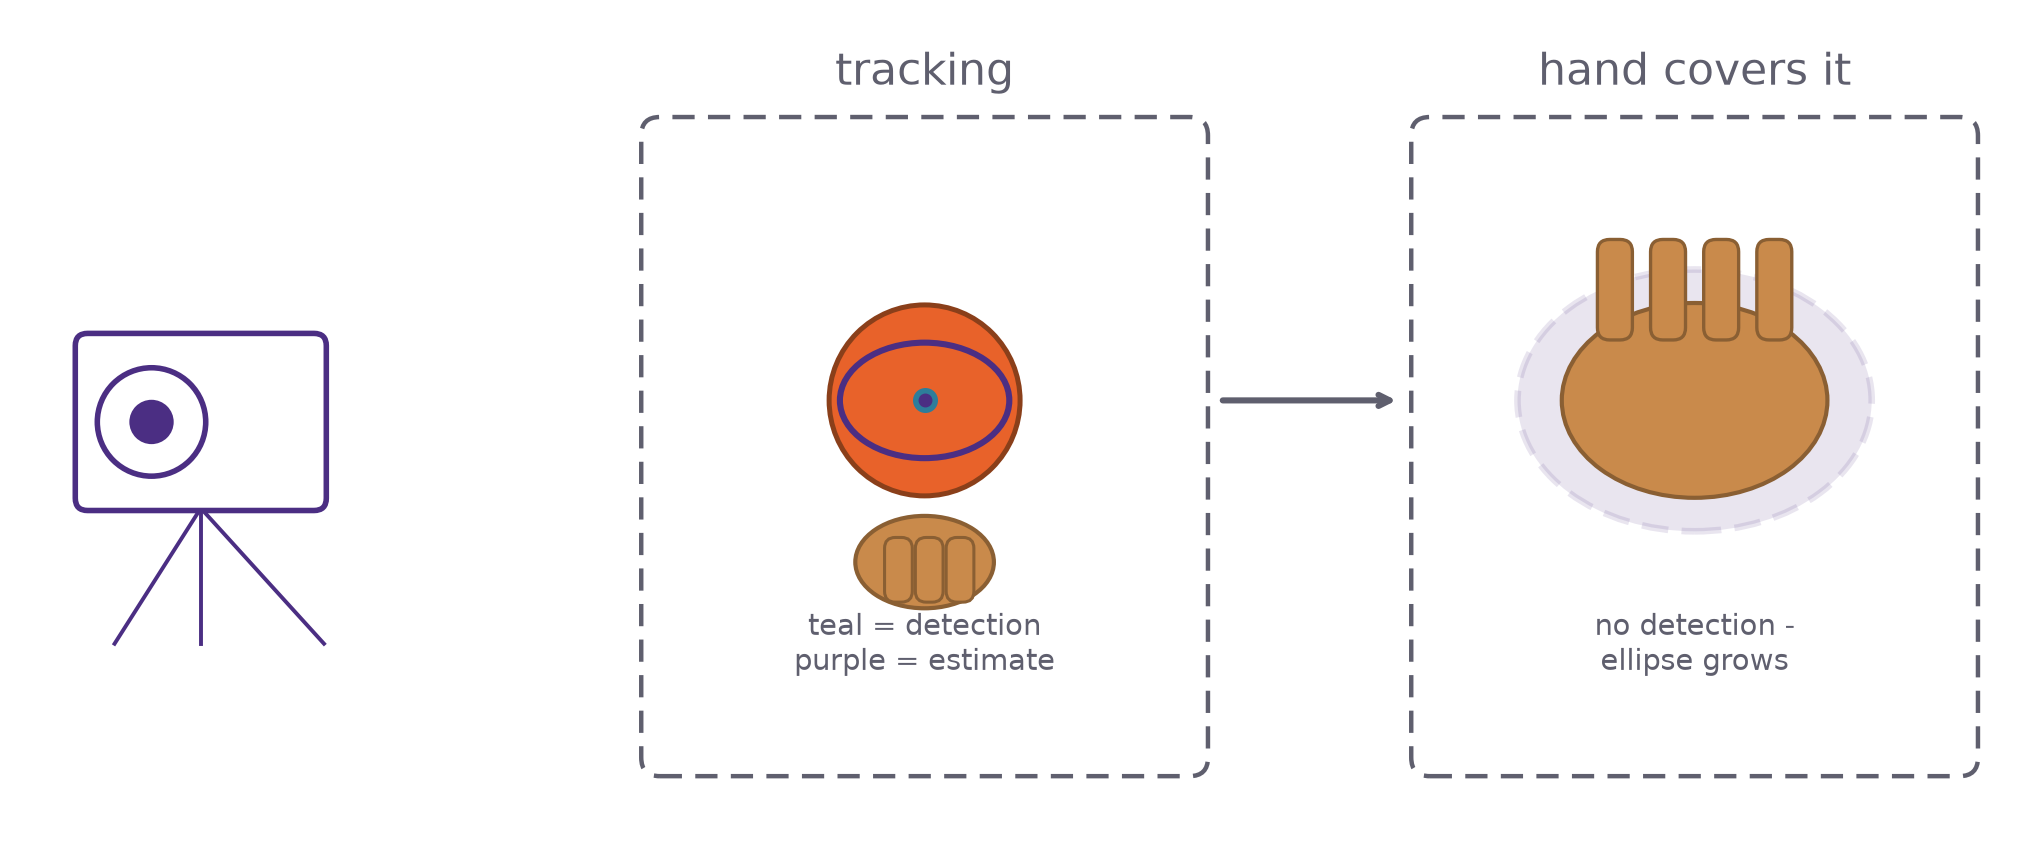
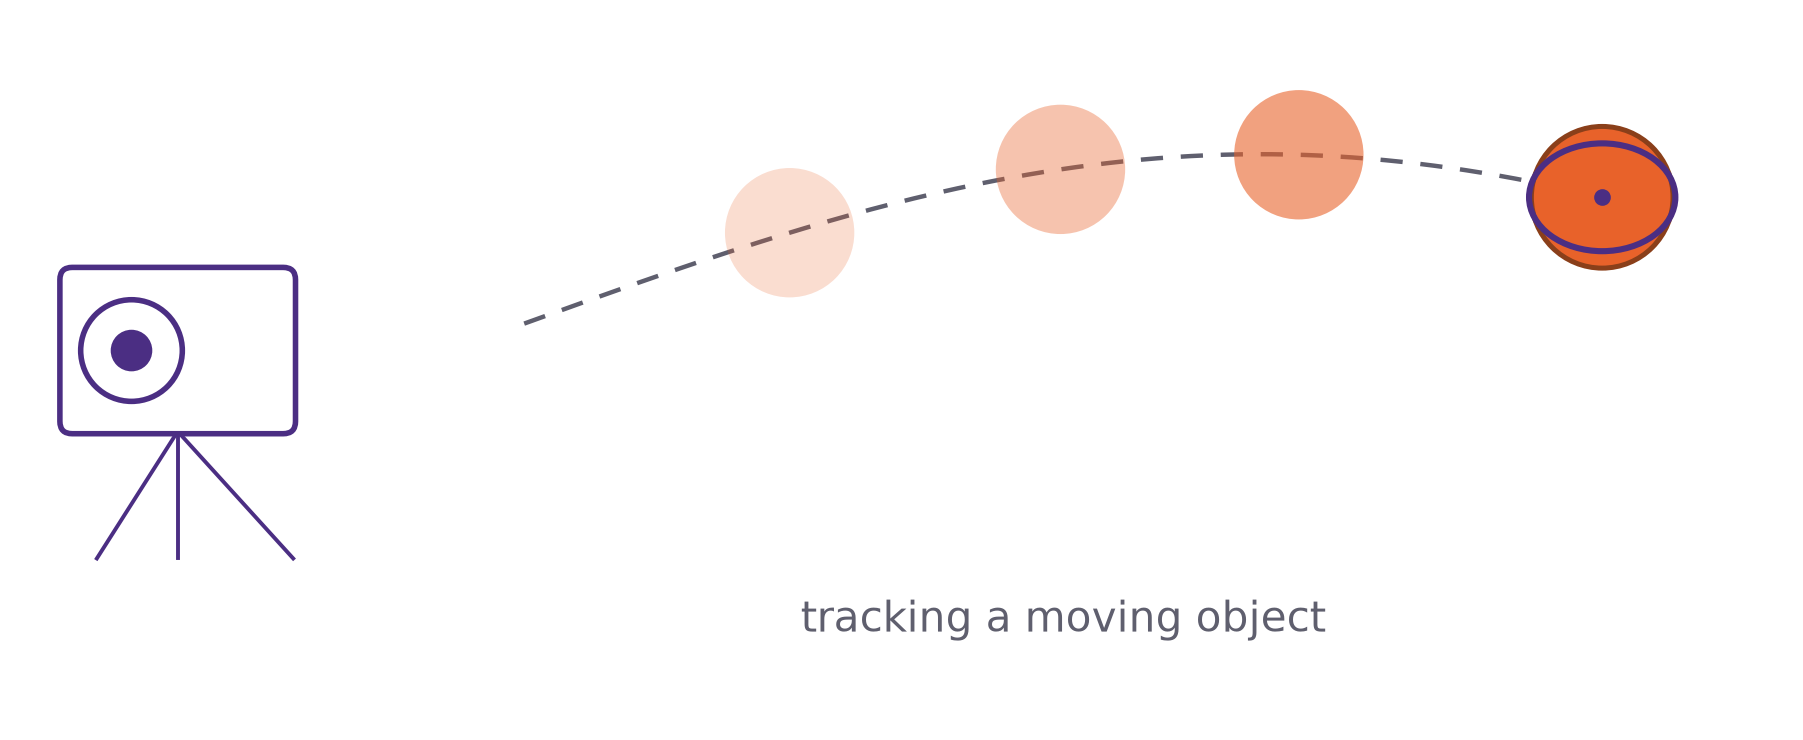
Simplify the Kalman tracking scene illustration
Drop the hand/occlusion panels - just a camera tracking one object
moving along a path, with a faded trail and the current purple estimate
ellipse.

diff --git a/make_illustrations.py b/make_illustrations.py
@@ -45,29 +45,6 @@ def camera(ax, x, y, s=1.0, color=PURPLE):
     return x + 1.0 * s, y + 0.35 * s  # lens-ish exit point for arrows
 
 
-def hand(ax, cx, cy, s=1.0, color="#C98A4B", covering=False):
-    """Schematic hand - a palm blob with four short fingers - entering from
-    below. When covering=True it is drawn larger, centred, and on top."""
-    if covering:
-        ax.add_patch(Ellipse((cx, cy), 1.5 * s, 1.1 * s, facecolor=color,
-                              edgecolor="#8a5f33", lw=1.5, zorder=6))
-        for dx in (-0.45, -0.15, 0.15, 0.45):
-            ax.add_patch(FancyBboxPatch((cx + dx * s - 0.09 * s, cy + 0.35 * s),
-                                        0.18 * s, 0.55 * s,
-                                        boxstyle="round,pad=0.01,rounding_size=0.08",
-                                        facecolor=color, edgecolor="#8a5f33",
-                                        lw=1.2, zorder=6))
-    else:
-        ax.add_patch(Ellipse((cx, cy - 1.05 * s), 0.9 * s, 0.6 * s, facecolor=color,
-                              edgecolor="#8a5f33", lw=1.5, zorder=2))
-        for dx in (-0.25, -0.05, 0.15):
-            ax.add_patch(FancyBboxPatch((cx + dx * s, cy - 1.3 * s),
-                                        0.16 * s, 0.4 * s,
-                                        boxstyle="round,pad=0.01,rounding_size=0.07",
-                                        facecolor=color, edgecolor="#8a5f33",
-                                        lw=1.1, zorder=2))
-
-
 def save(fig, name):
     fig.savefig(OUT / f"{name}.png", dpi=200, bbox_inches="tight", pad_inches=0.08,
                 transparent=True)
@@ -147,47 +124,33 @@ def demo3():
 
 
 def demo3_scene():
-    """The physical scene: a camera watching a held object, then a hand
-    covering it - as opposed to demo3_setup's abstract predict/correct loop."""
-    fig, ax = new_fig(13.0, 5.4)
-    camera(ax, 0.4, 2.2, s=1.6, color=PURPLE)
-
-    for bx, title in ((4.1, "tracking"), (9.1, "hand covers it")):
-        box = FancyBboxPatch((bx, 0.5), 3.6, 4.2,
-                              boxstyle="round,pad=0.04,rounding_size=0.12",
-                              linewidth=1.6, edgecolor=GREY, facecolor="white",
-                              linestyle=(0, (5, 3)), zorder=1)
-        ax.add_patch(box)
-        ax.text(bx + 1.8, 4.95, title, color=GREY, fontsize=16, ha="center")
-
-    # Left box: object visible, being tracked.
+    """The physical scene, simply: a camera watching one object move along a
+    path, tracked frame by frame."""
     TANGERINE = "#E8622A"
-    ox, oy = 5.9, 2.9
-    hand(ax, ox, oy, s=1.0, color="#C98A4B", covering=False)
-    ax.add_patch(Circle((ox, oy), 0.62, facecolor=TANGERINE, edgecolor="#8a3f1a",
-                        lw=1.8, zorder=3))
-    ax.plot(ox, oy, marker="o", ms=8, color=TEAL, zorder=5)
-    ax.add_patch(Ellipse((ox, oy), 1.1, 0.75, edgecolor=PURPLE, facecolor="none",
+    fig, ax = new_fig(11.5, 4.6)
+    camera(ax, 0.3, 1.9, s=1.5, color=PURPLE)
+
+    # A gentle arc for the object's path, left to right.
+    t = np.linspace(0, 1, 200)
+    path_x = 3.3 + 7.0 * t
+    path_y = 2.6 + 1.1 * np.sin(2.3 * t)
+    ax.plot(path_x, path_y, color=GREY, lw=1.6, ls=(0, (5, 4)), zorder=1)
+
+    # Faint ghost positions behind the object, then the current position.
+    for frac, alpha in ((0.25, 0.22), (0.5, 0.38), (0.72, 0.6)):
+        i = int(frac * (len(t) - 1))
+        ax.add_patch(Circle((path_x[i], path_y[i]), 0.42, facecolor=TANGERINE,
+                            edgecolor="none", alpha=alpha, zorder=2))
+
+    cx, cy = path_x[-1], path_y[-1]
+    ax.add_patch(Circle((cx, cy), 0.46, facecolor=TANGERINE, edgecolor="#8a3f1a",
+                        lw=1.8, zorder=4))
+    ax.add_patch(Ellipse((cx, cy), 0.95, 0.7, edgecolor=PURPLE, facecolor="none",
                          lw=2.2, zorder=5))
-    ax.plot(ox, oy, marker="o", ms=4, color=PURPLE, zorder=6)
-    ax.text(ox, 1.15, "teal = detection\npurple = estimate", color=GREY,
-            fontsize=10.5, ha="center")
+    ax.plot(cx, cy, marker="o", ms=5, color=PURPLE, zorder=6)
 
-    # Arrow between the two boxes.
-    ax.annotate("", xy=(9.0, 2.9), xytext=(7.8, 2.9),
-                arrowprops=dict(arrowstyle="->", color=GREY, lw=2.2))
-
-    # Right box: object hidden, ellipse inflated.
-    ox2, oy2 = 10.9, 2.9
-    ax.add_patch(Circle((ox2, oy2), 0.62, facecolor=TANGERINE, alpha=0.35,
-                        edgecolor="none", zorder=2))
-    ax.add_patch(Ellipse((ox2, oy2), 2.3, 1.7, edgecolor=PURPLE, facecolor=PURPLE,
-                         alpha=0.12, lw=2.4, linestyle=(0, (4, 2)), zorder=4))
-    ax.plot(ox2, oy2, marker="o", ms=4, color=PURPLE, zorder=6)
-    hand(ax, ox2, oy2, s=1.15, color="#C98A4B", covering=True)
-    ax.text(ox2, 1.15, "no detection -\nellipse grows", color=GREY,
-            fontsize=10.5, ha="center")
-
+    ax.text((3.3 + 10.3) / 2, 0.6, "tracking a moving object", color=GREY,
+            fontsize=15, ha="center")
     save(fig, "demo3_scene")
 
 
